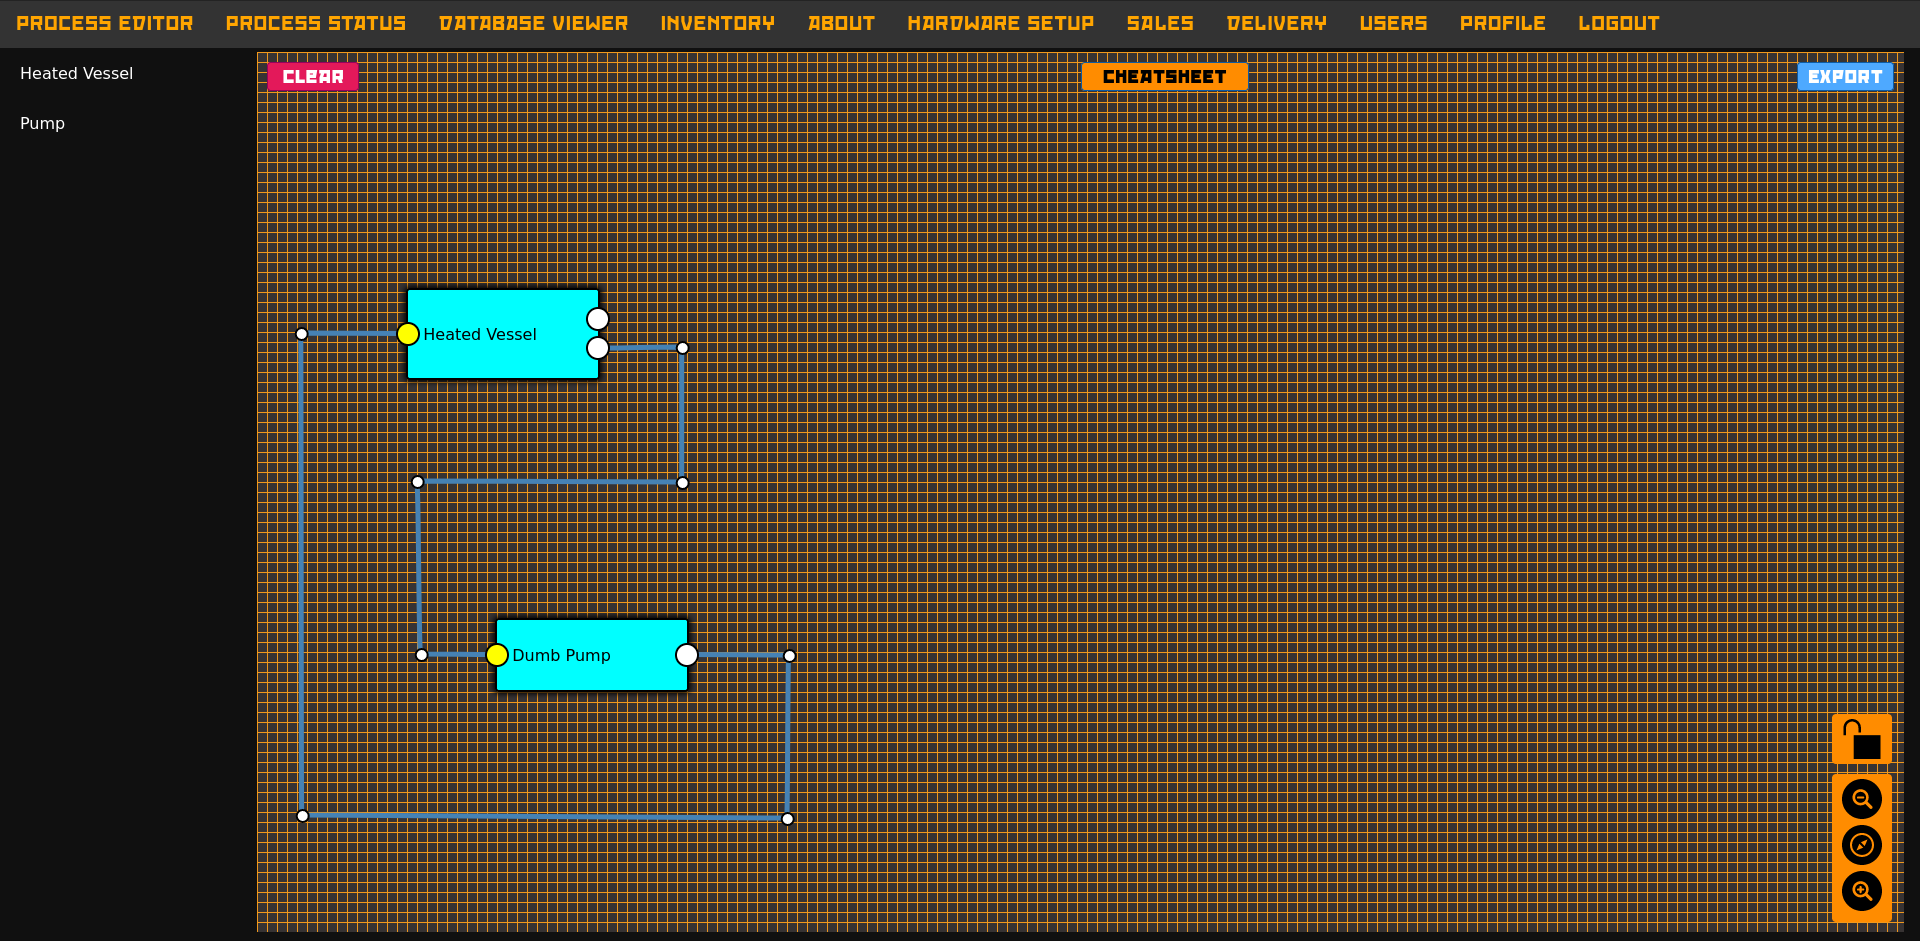
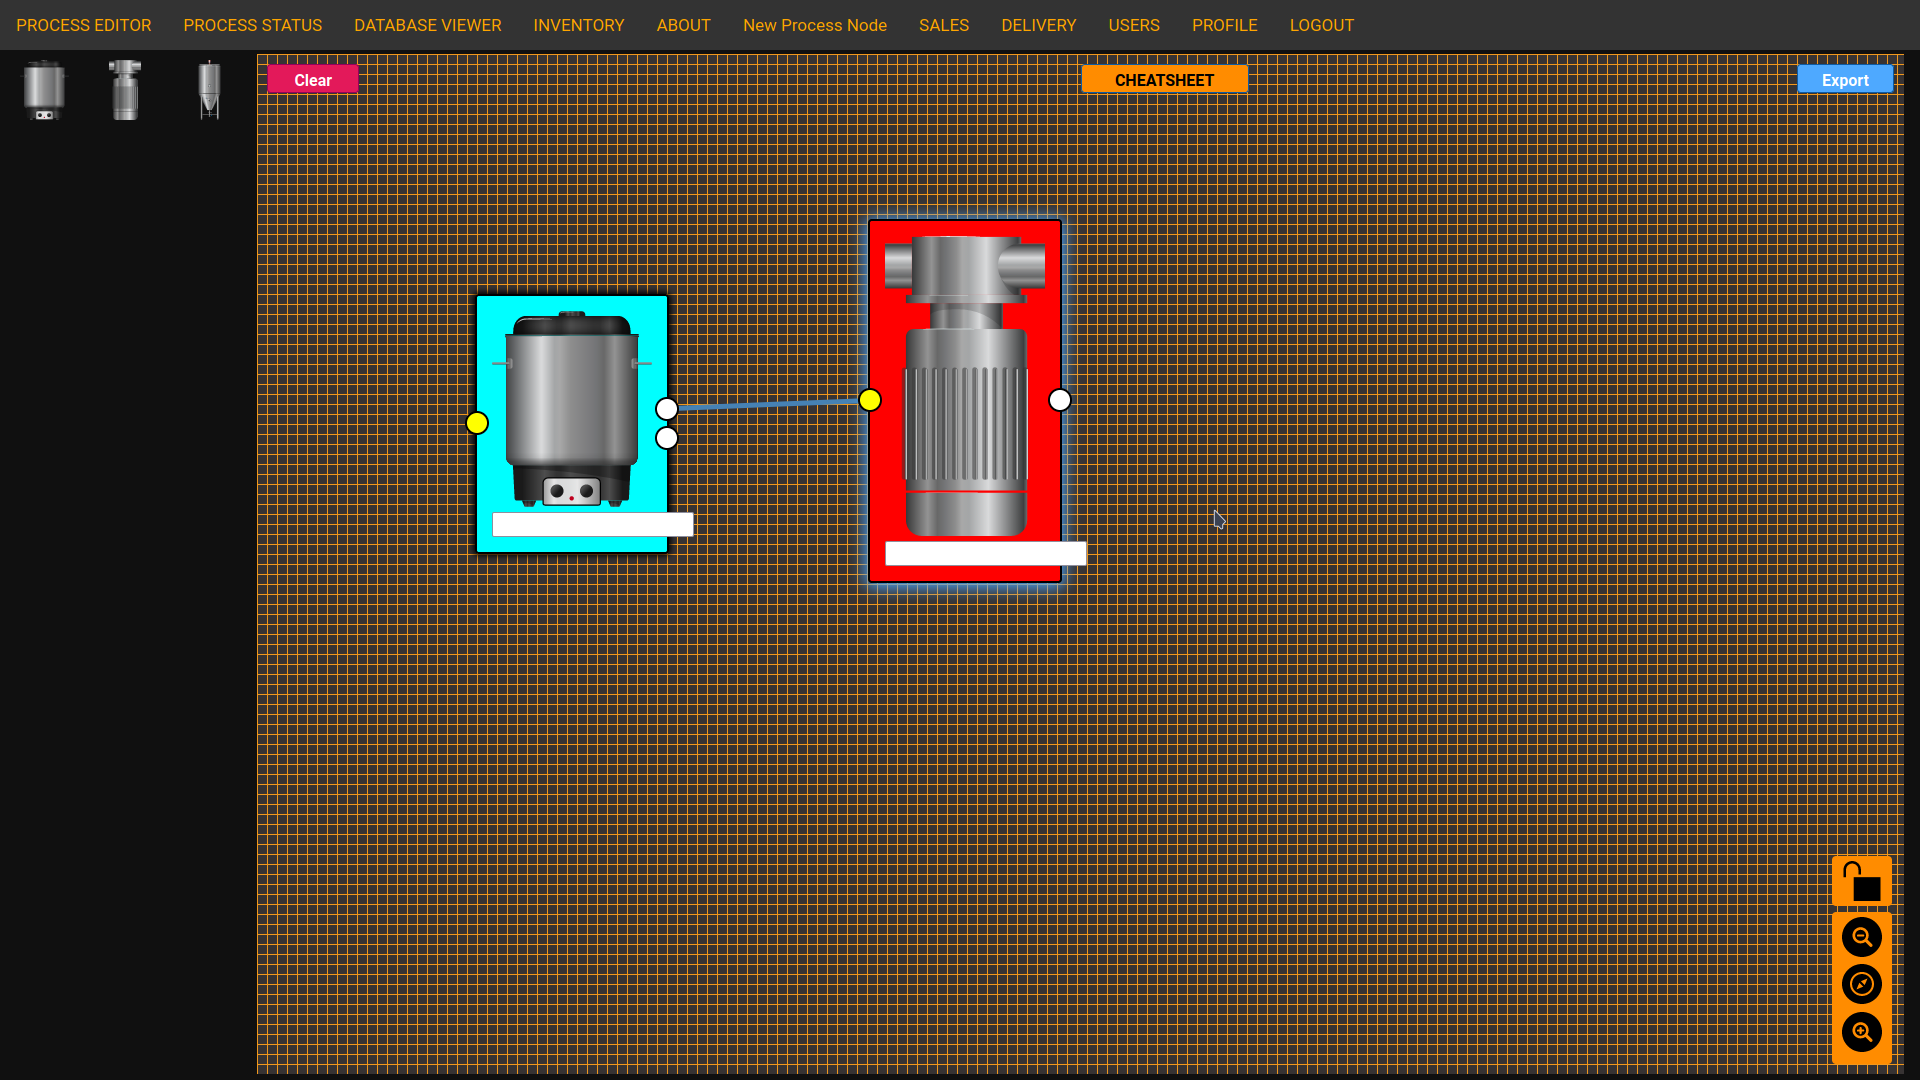
Improved UI for Process Editor

Changed region(s): [[0.0, 0.0, 1.0, 1.0]]

diff --git a/adam_v2/templates/process_editor.html b/adam_v2/templates/process_editor.html
@@ -16,13 +16,23 @@
         Tuple -> Contains Multiple Elements -> Each element contains a list of arguments -> pass arguments through Jinja2
         like <div ... data-node=%%data_node[8][0]%%></div> -->
         <!-- % for i in process_icon_elements % -->
-       <div class="drag-drawflow" draggable="true" ondragstart="drag(event)" data-node="heated_vessel">
-            <i class="fab pc-heated_vessel"></i><span> Heated Vessel</span>
-      </div>
+
+        <div class ="item_grid">
+       		<div class="drag-drawflow" draggable="true" ondragstart="drag(event)" data-node="heated_vessel">
+            	<img draggable="false" src='/static/themes/craftbeerpi-ui-widgets/Einkocher.svg' height="60px">
+            	<i class="fab pc-heated_vessel"></i>            	
+     		</div>
         <!-- % endfor % -->
-      <div class="drag-drawflow" draggable="true" ondragstart="drag(event)" data-node="dumb_pump">
-        <i class="fab pc-dumb_pump"></i><span> Pump </span>
-      </div>
+      		<div class="drag-drawflow" draggable="true" ondragstart="drag(event)" data-node="dumb_pump">
+        		<img draggable="false" src='/static/themes/craftbeerpi-ui-widgets/P_gradi_3.svg' height="60px">
+        		<i class="fab pc-dumb_pump"></i>
+      		</div>
+
+      		<div class="drag-drawflow" draggable="true" ondragstart="drag(event)" data-node="ZKG">
+      			<img draggable="false" src='/static/themes/craftbeerpi-ui-widgets/120L_ZKG.svg' height="60px">
+      			<i class="fab pc-zkg"></i>
+      		</div> 
+      	</div>
       
     </div>
     <div class="col-right">
@@ -231,22 +241,29 @@
 
       switch (name) {
         case 'heated_vessel':
-        var heated_vessel = `
-        <div>
-          <div class="title-box"><i class="fab pc-heated_vessel"></i> <input type="date"></div>
-        </div>
-        `;
-          editor.addNode('heated_vessel', 1,  2, pos_x, pos_y, 'heated_vessel', {}, heated_vessel );
+         // editor.addNode('heated_vessel', 1,  2, pos_x, pos_y, 'heated_vessel', {}, heated_vessel );
+         // Image draggble = False must be for it to function properly
+         var heated_vessel = `
+         	 <img draggable="false" src='/static/themes/craftbeerpi-ui-widgets/Einkocher.svg'>    
+         	 <input type="int">
+         `
+
+         // name, inputs, outputs, pos_x, pos_y, class name, data, html or name of register node, typenode
+         editor.addNode('heated_vessel', 1, 2, pos_x, pos_y, 'img', {}, heated_vessel);
           break;
         case 'dumb_pump':
           var dumb_pump = `
-          <div>
-            <div class="title-box"><i class="fab pc-dumb_pump"></i> Dumb Pump</div>
-          </div>
+             <img draggable="false" src='/static/themes/craftbeerpi-ui-widgets/P_gradi_3.svg'>    
+         	 <input type="int">
           `
           editor.addNode('dumb_pump', 1, 1, pos_x, pos_y, 'dumb_pump', {}, dumb_pump );
           break;
-
+        case 'ZKG':
+        var ZKG = `
+        <div>
+        	<div class="title-box"><i class="fab pc-zkg"></i></div>
+        </div>`
+        break;
 //        default:
       }
     }

diff --git a/adam_v2/static/drawflow_theme_dark.css b/adam_v2/static/drawflow_theme_dark.css
@@ -247,12 +247,18 @@
   display: flex;
 }
 
+/* NOTE:
+Modification added: "opacity: 0.99;"
+This is necessary that the Process Editor shows the images, but the image do no block drag-and drop
+*/
 .drag-drawflow {
   line-height: 50px;
   border-bottom: 1px solid var(--border-color);
   padding-left: 20px;
   cursor: move;
   user-select: none;
+  opacity: 0.99;
+  z-index: 1;
 }
 
 .btn-export {

diff --git a/adam_v2/static/process_editor.css b/adam_v2/static/process_editor.css
@@ -1,4 +1,13 @@
-control_node {
+.control_node {
     width: 20px;
     height: 20px;
+}
+
+.item_grid {
+	display: grid;
+	grid-template-columns: repeat(auto-fill, minmax(60px, 1fr));
+	grid-auto-rows: 80px;
+	grid-gap: 10px;
+	padding-top: 10px;
+	z-index: 0;
 }
